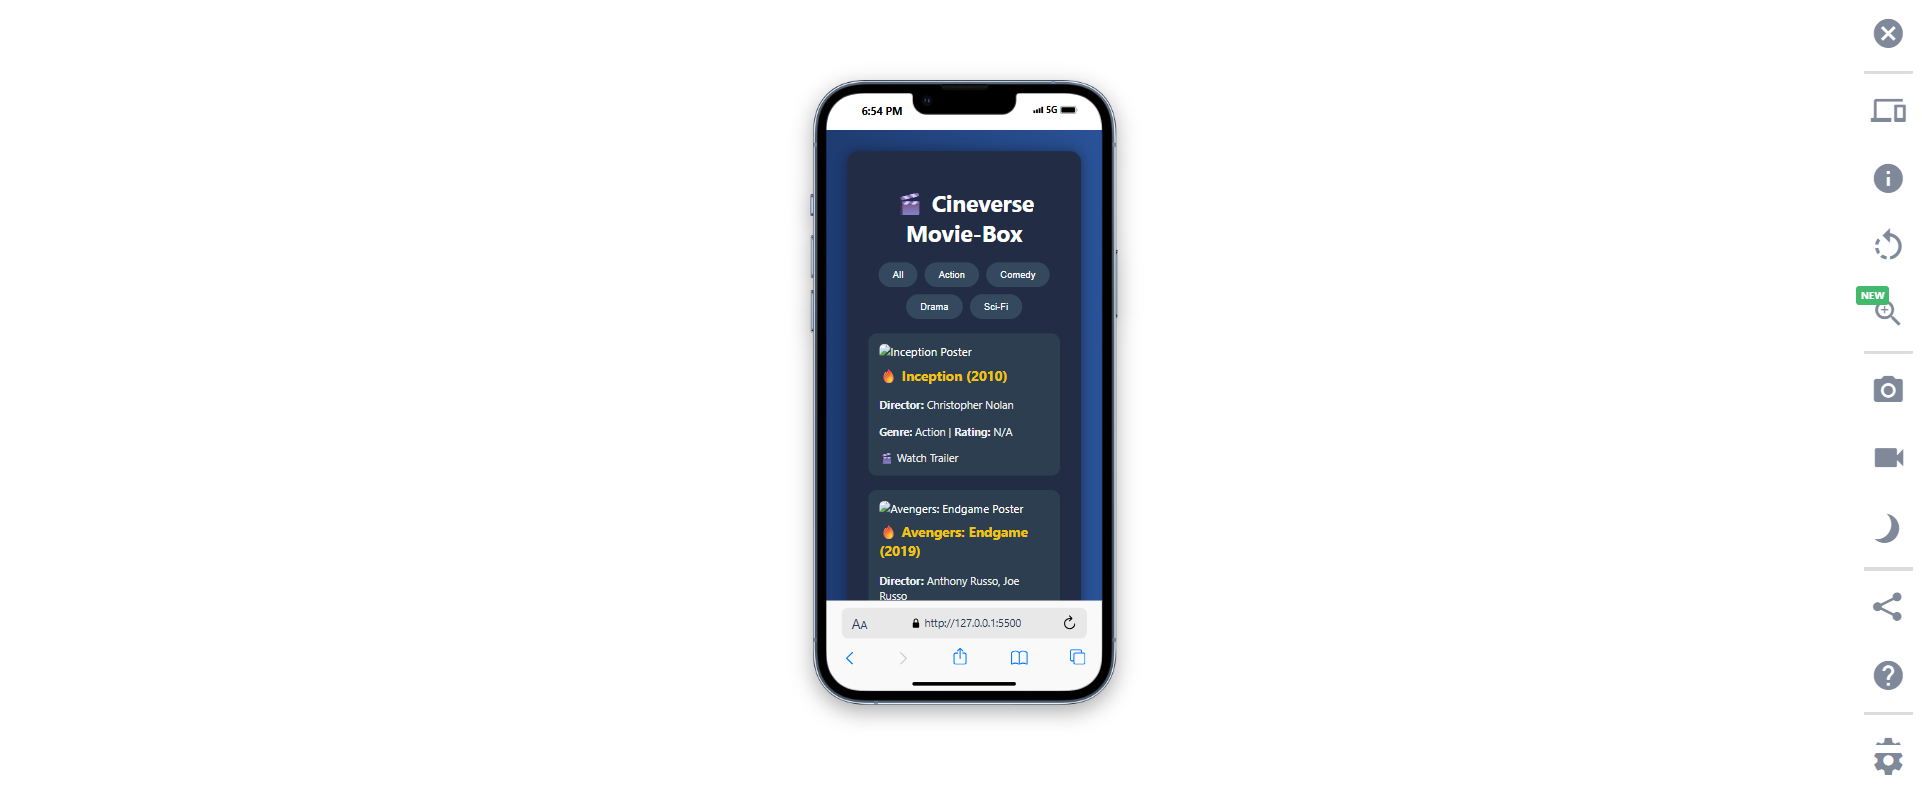
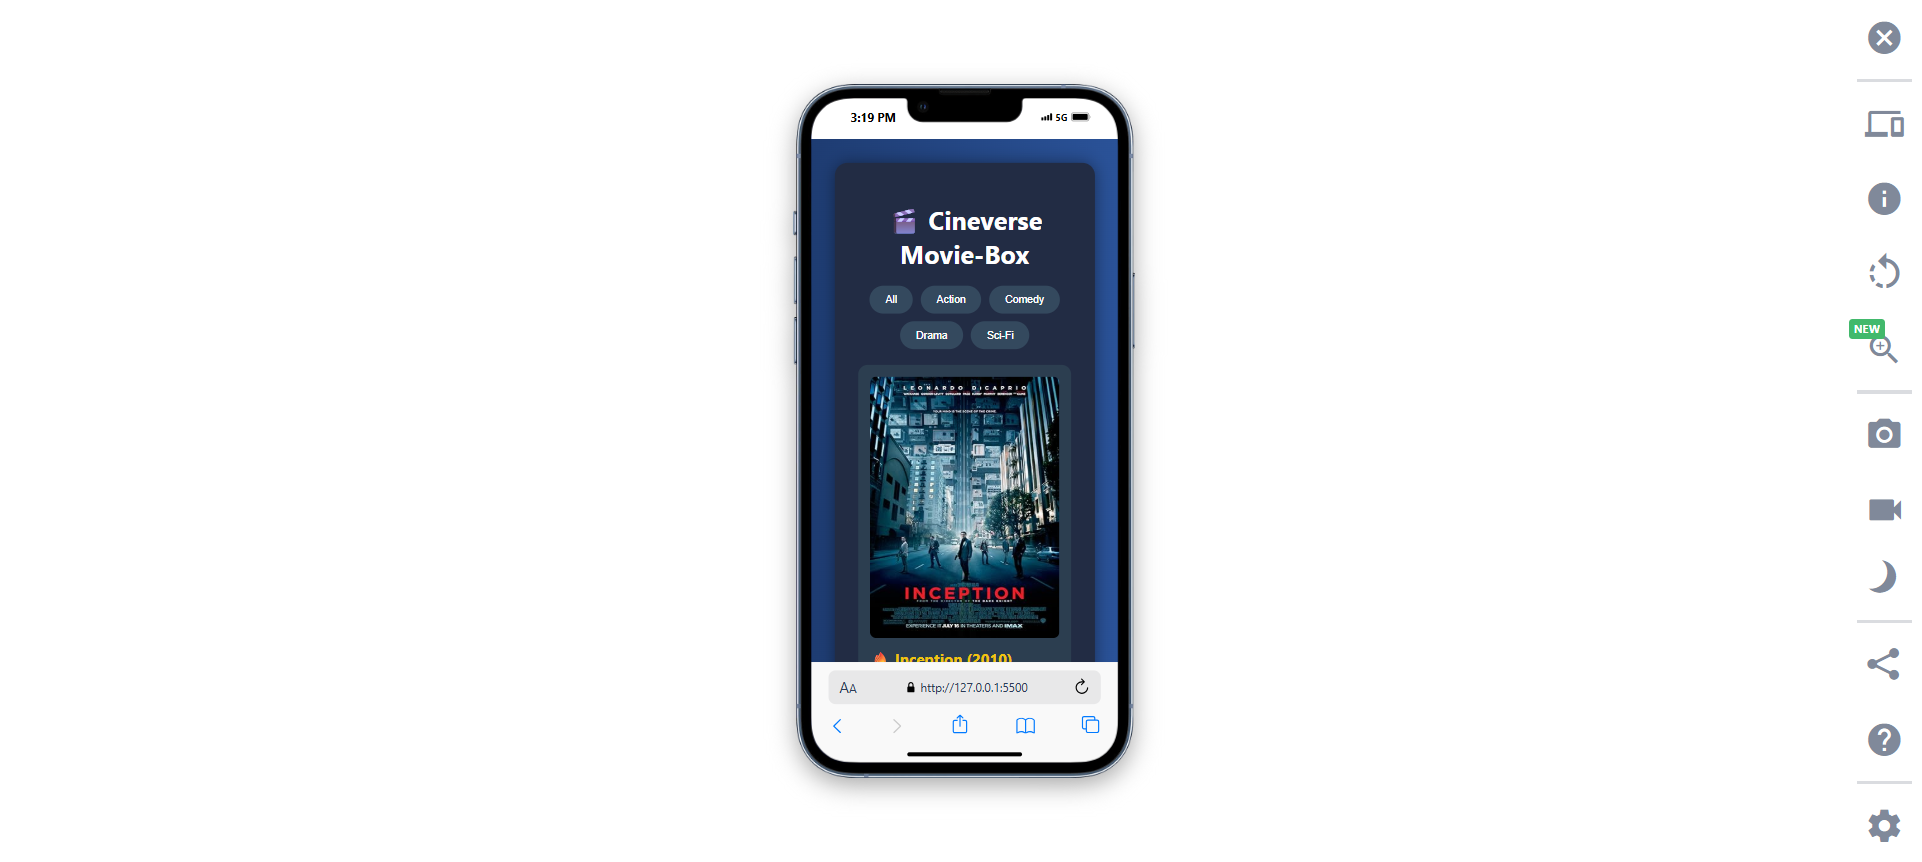
fix: final error fixed

diff --git a/script.js b/script.js
@@ -1,11 +1,15 @@
+// app.js
+
+// ======== Classes =========
 class Movie {
   #rating;
 
-  constructor(title, year, genre, director) {
+  constructor(title, year, genre, director, poster) {
     this.title = title;
     this.year = year;
     this.genre = genre;
     this.director = director;
+    this.poster = poster;
     this.#rating = null;
   }
 
@@ -21,7 +25,7 @@ class Movie {
 
   display() {
     return `
-      <img src="https://img.omdbapi.com/?apikey=${API_KEY}&t=${encodeURIComponent(this.title)}" alt="${this.title} Poster" style="width:100%; border-radius: 8px; margin-bottom: 10px;" />
+      <img src="${this.poster !== 'N/A' ? this.poster : 'placeholder.jpg'}" alt="${this.title} Poster" style="width:100%; height:50vh; border-radius: 8px; margin-bottom: 10px;" />
       <h3>${this instanceof ActionMovie ? '🔥' : this instanceof ComedyMovie ? '😂' : ''} ${this.title} (${this.year})</h3>
       <p><strong>Director:</strong> ${this.director}</p>
       <p><strong>Genre:</strong> ${this.genre}${this instanceof ComedyMovie ? ' | <strong>Laugh Score:</strong>' : ' | <strong>Rating:</strong>'} ${this.getRating() ?? 'N/A'}</p>
@@ -30,29 +34,8 @@ class Movie {
   }
 }
 
-class ActionMovie extends Movie {
-  display() {
-    return `
-      <img src="https://img.omdbapi.com/?apikey=${API_KEY}&t=${encodeURIComponent(this.title)}" alt="${this.title} Poster" style="width:100%; border-radius: 8px; margin-bottom: 10px;" />
-      <h3>${this instanceof ActionMovie ? '🔥' : this instanceof ComedyMovie ? '😂' : ''} ${this.title} (${this.year})</h3>
-      <p><strong>Director:</strong> ${this.director}</p>
-      <p><strong>Genre:</strong> ${this.genre}${this instanceof ComedyMovie ? ' | <strong>Laugh Score:</strong>' : ' | <strong>Rating:</strong>'} ${this.getRating() ?? 'N/A'}</p>
-      <a href="https://www.youtube.com/results?search_query=${encodeURIComponent(this.title + ' trailer')}" target="_blank">🎬 Watch Trailer</a>
-    `;
-  }
-}
-
-class ComedyMovie extends Movie {
-  display() {
-    return `
-      <img src="https://img.omdbapi.com/?apikey=${API_KEY}&t=${encodeURIComponent(this.title)}" alt="${this.title} Poster" style="width:100%; border-radius: 8px; margin-bottom: 10px;" />
-      <h3>${this instanceof ActionMovie ? '🔥' : this instanceof ComedyMovie ? '😂' : ''} ${this.title} (${this.year})</h3>
-      <p><strong>Director:</strong> ${this.director}</p>
-      <p><strong>Genre:</strong> ${this.genre}${this instanceof ComedyMovie ? ' | <strong>Laugh Score:</strong>' : ' | <strong>Rating:</strong>'} ${this.getRating() ?? 'N/A'}</p>
-      <a href="https://www.youtube.com/results?search_query=${encodeURIComponent(this.title + ' trailer')}" target="_blank">🎬 Watch Trailer</a>
-    `;
-  }
-}
+class ActionMovie extends Movie {}
+class ComedyMovie extends Movie {}
 
 class User {
   constructor(username) {
@@ -78,15 +61,15 @@ class Review {
 
   display() {
     return `
-      <img src="https://img.omdbapi.com/?apikey=${API_KEY}&t=${encodeURIComponent(this.title)}" alt="${this.title} Poster" style="width:100%; border-radius: 8px; margin-bottom: 10px;" />
-      <h3>${this instanceof ActionMovie ? '🔥' : this instanceof ComedyMovie ? '😂' : ''} ${this.title} (${this.year})</h3>
-      <p><strong>Director:</strong> ${this.director}</p>
-      <p><strong>Genre:</strong> ${this.genre}${this instanceof ComedyMovie ? ' | <strong>Laugh Score:</strong>' : ' | <strong>Rating:</strong>'} ${this.getRating() ?? 'N/A'}</p>
-      <a href="https://www.youtube.com/results?search_query=${encodeURIComponent(this.title + ' trailer')}" target="_blank">🎬 Watch Trailer</a>
+      <div class="review">
+        <p><strong>${this.user.username}</strong> on <em>${this.movie.title}</em>:</p>
+        <p>${this.reviewText}</p>
+      </div>
     `;
   }
 }
 
+// ======== App Logic =========
 const API_KEY = "ca05fff1";
 const movieInfo = document.getElementById("movieInfo");
 const searchBtn = document.getElementById("searchBtn");
@@ -107,6 +90,7 @@ const preloadTitles = [
 
 const genreFilters = ["All", "Action", "Comedy", "Drama", "Sci-Fi"];
 
+// Load Predefined Movies
 window.addEventListener("DOMContentLoaded", async () => {
   for (const title of preloadTitles) {
     const data = await fetchMovieData(title);
@@ -114,7 +98,7 @@ window.addEventListener("DOMContentLoaded", async () => {
       const genre = data.Genre.split(",")[0];
       const MovieClass = genre.toLowerCase() === "action" ? ActionMovie :
                          genre.toLowerCase() === "comedy" ? ComedyMovie : Movie;
-      const movie = new MovieClass(data.Title, data.Year, genre, data.Director);
+      const movie = new MovieClass(data.Title, data.Year, genre, data.Director, data.Poster);
       loadedMovies.push(movie);
     }
   }
@@ -173,7 +157,7 @@ searchBtn.addEventListener("click", async () => {
       const MovieClass = genre.toLowerCase() === "action" ? ActionMovie :
                          genre.toLowerCase() === "comedy" ? ComedyMovie : Movie;
 
-      currentMovie = new MovieClass(data.Title, data.Year, genre, data.Director);
+      currentMovie = new MovieClass(data.Title, data.Year, genre, data.Director, data.Poster);
       movieInfo.innerHTML = currentMovie.display();
     } else {
       movieInfo.innerHTML = `<p>❌ Movie not found. Please try the full title (e.g., \"The Matrix\").</p>`;

diff --git a/index.html b/index.html
@@ -9,17 +9,13 @@
 <body>
   <div class="container">
     <h1>🎬 Cineverse Movie-Box</h1>
-
     <div id="filterButtons" class="filter-bar"></div>
     <div id="gallery" class="movie-gallery"></div>
-
     <div class="search-section">
       <input type="text" id="movieTitle" placeholder="Enter a movie title..." />
       <button id="searchBtn">Search</button>
     </div>
-
     <div id="movieInfo" class="movie-display hidden"></div>
-
     <div class="user-section">
       <h2>User Review</h2>
       <input type="text" id="username" placeholder="Your name" />
@@ -27,10 +23,8 @@
       <textarea id="review" placeholder="Write your review..."></textarea>
       <button id="submitReview">Submit Review</button>
     </div>
-
     <div id="reviewsContainer"><h2>All Reviews</h2></div>
   </div>
-
   <script src="script.js"></script>
 </body>
 </html>
